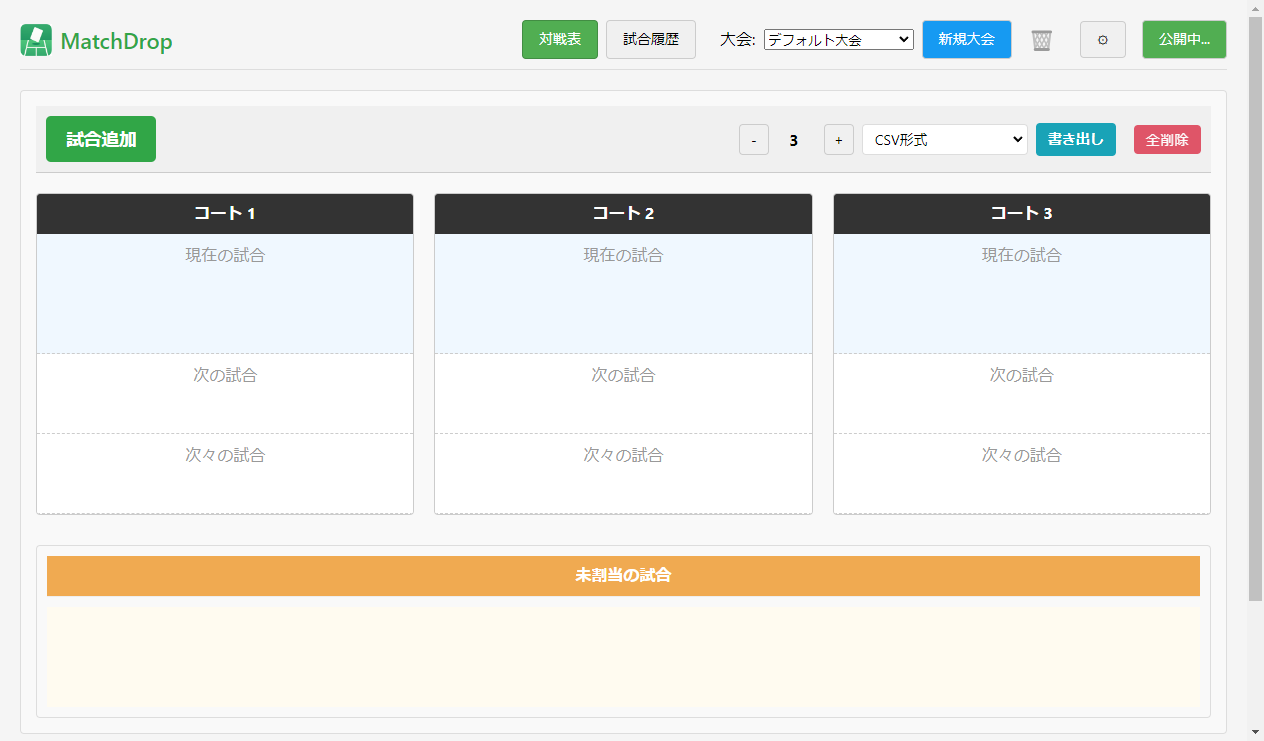
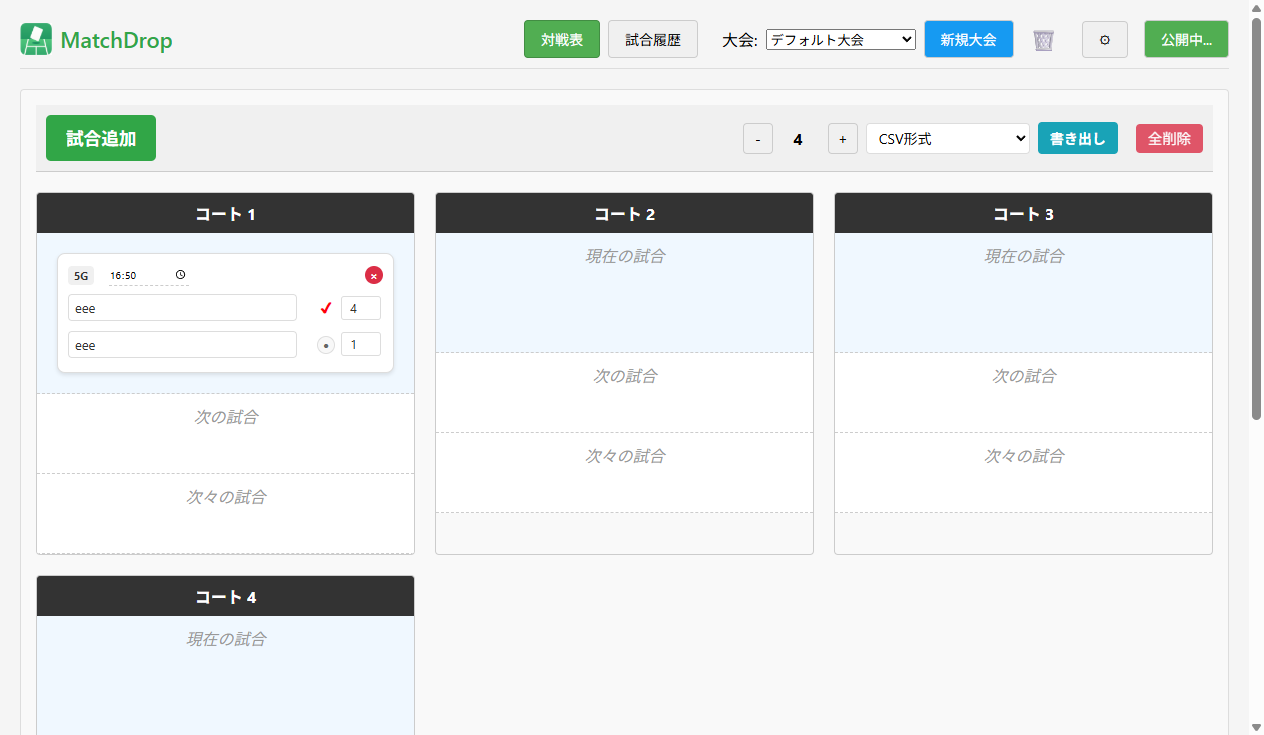
auto: deploy static site 2025-07-16T08:06:46.769Z

diff --git a/board-view.html b/board-view.html
@@ -5,7 +5,7 @@
           <button id="add-match-btn" class="add-match-btn-prominent" style="pointer-events: auto; cursor: pointer; opacity: 1;">試合追加</button>
           <div class="court-count-controls" style="margin-left:auto; margin-right:8px;">
             <button id="decrease-courts-btn">-</button>
-            <span id="court-count-display" class="court-count-display">3</span>
+            <span id="court-count-display" class="court-count-display">4</span>
             <button id="increase-courts-btn">+</button>
           </div>
           
@@ -20,7 +20,7 @@
           
           <button id="delete-all-matches-btn" class="delete-all-btn">全削除</button>
       </div>
-      <div id="court-grid" class="court-grid"><div class="court-slot" data-court-number="1"><div class="court-header"><span class="court-name-edit" data-court-number="1">コート 1</span></div><div class="court-rows"><div class="court-row current-row" data-row-type="current"><div class="row-placeholder">現在の試合</div><div class="card-container"></div></div><div class="court-row next-row" data-row-type="next"><div class="row-placeholder">次の試合</div><div class="card-container"></div></div><div class="court-row next2-row" data-row-type="next2"><div class="row-placeholder">次々の試合</div><div class="card-container"></div></div></div></div><div class="court-slot" data-court-number="2"><div class="court-header"><span class="court-name-edit" data-court-number="2">コート 2</span></div><div class="court-rows"><div class="court-row current-row" data-row-type="current"><div class="row-placeholder">現在の試合</div><div class="card-container"></div></div><div class="court-row next-row" data-row-type="next"><div class="row-placeholder">次の試合</div><div class="card-container"></div></div><div class="court-row next2-row" data-row-type="next2"><div class="row-placeholder">次々の試合</div><div class="card-container"></div></div></div></div><div class="court-slot" data-court-number="3"><div class="court-header"><span class="court-name-edit" data-court-number="3">コート 3</span></div><div class="court-rows"><div class="court-row current-row" data-row-type="current"><div class="row-placeholder">現在の試合</div><div class="card-container"></div></div><div class="court-row next-row" data-row-type="next"><div class="row-placeholder">次の試合</div><div class="card-container"></div></div><div class="court-row next2-row" data-row-type="next2"><div class="row-placeholder">次々の試合</div><div class="card-container"></div></div></div></div></div>
+      <div id="court-grid" class="court-grid"><div class="court-slot" data-court-number="1"><div class="court-header"><span class="court-name-edit" data-court-number="1">コート 1</span></div><div class="court-rows"><div class="court-row current-row" data-row-type="current"><div class="row-placeholder" style="display: none;">現在の試合</div><div class="card-container"><div class="match-card" id="match-1" draggable="true" data-match-id="1"><div class="match-card-header"><span class="delete-button" title="この試合を削除">×</span><div class="match-card-game-format-display" title="試合形式は変更できません。変更する場合は新規に試合を作成してください。ダブルクリックで試合を完了して履歴に移動します。">5G</div><input type="time" class="match-end-time-input"></div><div class="match-card-players-container"><div class="match-card-player"><input type="text" class="player-name-input" data-player="A"><div style="display: flex; align-items: center; gap: 4px; margin-left: auto;"><div class="win-label win-check" data-player="A" style="color: red; font-weight: bold;">✔</div><div style="display: flex; flex-direction: column; align-items: center; gap: 2px;"><input type="number" min="0" max="99" class="score-input" data-player="A"></div></div></div><div class="match-card-player"><input type="text" class="player-name-input" data-player="B"><div style="display: flex; align-items: center; gap: 4px; margin-left: auto;"><div class="win-label win-button" data-player="B">●</div><div style="display: flex; flex-direction: column; align-items: center; gap: 2px;"><input type="number" min="0" max="99" class="score-input" data-player="B"><div class="tiebreak-score-container-b" style="display: inline-block;"></div></div></div></div><div class="tiebreak-row" style="display: none; justify-content: flex-end; gap: 8px; margin-left: auto;"><span style="display: none;"><div class="tiebreak-score-container-a" style="display: inline-block; margin-top: 2px;"><span style="font-size: 0.8em;">(</span><input type="number" min="0" max="99" class="tiebreak-score-input" data-tiebreak="A" placeholder="TB" tabindex="0" style="width: 40px; height: 20px; font-size: 0.8em; padding: 0px 2px; pointer-events: auto; cursor: text;"><span style="font-size: 0.8em;">)</span></div></span></div></div></div></div></div><div class="court-row next-row" data-row-type="next"><div class="row-placeholder">次の試合</div><div class="card-container"></div></div><div class="court-row next2-row" data-row-type="next2"><div class="row-placeholder">次々の試合</div><div class="card-container"></div></div></div></div><div class="court-slot" data-court-number="2"><div class="court-header"><span class="court-name-edit" data-court-number="2">コート 2</span></div><div class="court-rows"><div class="court-row current-row" data-row-type="current"><div class="row-placeholder">現在の試合</div><div class="card-container"></div></div><div class="court-row next-row" data-row-type="next"><div class="row-placeholder">次の試合</div><div class="card-container"></div></div><div class="court-row next2-row" data-row-type="next2"><div class="row-placeholder">次々の試合</div><div class="card-container"></div></div></div></div><div class="court-slot" data-court-number="3"><div class="court-header"><span class="court-name-edit" data-court-number="3">コート 3</span></div><div class="court-rows"><div class="court-row current-row" data-row-type="current"><div class="row-placeholder">現在の試合</div><div class="card-container"></div></div><div class="court-row next-row" data-row-type="next"><div class="row-placeholder">次の試合</div><div class="card-container"></div></div><div class="court-row next2-row" data-row-type="next2"><div class="row-placeholder">次々の試合</div><div class="card-container"></div></div></div></div><div class="court-slot" data-court-number="4"><div class="court-header"><span class="court-name-edit" data-court-number="4">コート 4</span></div><div class="court-rows"><div class="court-row current-row" data-row-type="current"><div class="row-placeholder">現在の試合</div><div class="card-container"></div></div><div class="court-row next-row" data-row-type="next"><div class="row-placeholder">次の試合</div><div class="card-container"></div></div><div class="court-row next2-row" data-row-type="next2"><div class="row-placeholder">次々の試合</div><div class="card-container"></div></div></div></div></div>
       
       <!-- 未割当のカード用の枠 -->
       <div class="unassigned-section">

diff --git a/dist-web/board-view.html b/dist-web/board-view.html
@@ -5,7 +5,7 @@
           <button id="add-match-btn" class="add-match-btn-prominent" style="pointer-events: auto; cursor: pointer; opacity: 1;">試合追加</button>
           <div class="court-count-controls" style="margin-left:auto; margin-right:8px;">
             <button id="decrease-courts-btn">-</button>
-            <span id="court-count-display" class="court-count-display">3</span>
+            <span id="court-count-display" class="court-count-display">4</span>
             <button id="increase-courts-btn">+</button>
           </div>
           
@@ -20,7 +20,7 @@
           
           <button id="delete-all-matches-btn" class="delete-all-btn">全削除</button>
       </div>
-      <div id="court-grid" class="court-grid"><div class="court-slot" data-court-number="1"><div class="court-header"><span class="court-name-edit" data-court-number="1">コート 1</span></div><div class="court-rows"><div class="court-row current-row" data-row-type="current"><div class="row-placeholder">現在の試合</div><div class="card-container"></div></div><div class="court-row next-row" data-row-type="next"><div class="row-placeholder">次の試合</div><div class="card-container"></div></div><div class="court-row next2-row" data-row-type="next2"><div class="row-placeholder">次々の試合</div><div class="card-container"></div></div></div></div><div class="court-slot" data-court-number="2"><div class="court-header"><span class="court-name-edit" data-court-number="2">コート 2</span></div><div class="court-rows"><div class="court-row current-row" data-row-type="current"><div class="row-placeholder">現在の試合</div><div class="card-container"></div></div><div class="court-row next-row" data-row-type="next"><div class="row-placeholder">次の試合</div><div class="card-container"></div></div><div class="court-row next2-row" data-row-type="next2"><div class="row-placeholder">次々の試合</div><div class="card-container"></div></div></div></div><div class="court-slot" data-court-number="3"><div class="court-header"><span class="court-name-edit" data-court-number="3">コート 3</span></div><div class="court-rows"><div class="court-row current-row" data-row-type="current"><div class="row-placeholder">現在の試合</div><div class="card-container"></div></div><div class="court-row next-row" data-row-type="next"><div class="row-placeholder">次の試合</div><div class="card-container"></div></div><div class="court-row next2-row" data-row-type="next2"><div class="row-placeholder">次々の試合</div><div class="card-container"></div></div></div></div></div>
+      <div id="court-grid" class="court-grid"><div class="court-slot" data-court-number="1"><div class="court-header"><span class="court-name-edit" data-court-number="1">コート 1</span></div><div class="court-rows"><div class="court-row current-row" data-row-type="current"><div class="row-placeholder" style="display: none;">現在の試合</div><div class="card-container"><div class="match-card" id="match-1" draggable="true" data-match-id="1"><div class="match-card-header"><span class="delete-button" title="この試合を削除">×</span><div class="match-card-game-format-display" title="試合形式は変更できません。変更する場合は新規に試合を作成してください。ダブルクリックで試合を完了して履歴に移動します。">5G</div><input type="time" class="match-end-time-input"></div><div class="match-card-players-container"><div class="match-card-player"><input type="text" class="player-name-input" data-player="A"><div style="display: flex; align-items: center; gap: 4px; margin-left: auto;"><div class="win-label win-check" data-player="A" style="color: red; font-weight: bold;">✔</div><div style="display: flex; flex-direction: column; align-items: center; gap: 2px;"><input type="number" min="0" max="99" class="score-input" data-player="A"></div></div></div><div class="match-card-player"><input type="text" class="player-name-input" data-player="B"><div style="display: flex; align-items: center; gap: 4px; margin-left: auto;"><div class="win-label win-button" data-player="B">●</div><div style="display: flex; flex-direction: column; align-items: center; gap: 2px;"><input type="number" min="0" max="99" class="score-input" data-player="B"><div class="tiebreak-score-container-b" style="display: inline-block;"></div></div></div></div><div class="tiebreak-row" style="display: none; justify-content: flex-end; gap: 8px; margin-left: auto;"><span style="display: none;"><div class="tiebreak-score-container-a" style="display: inline-block; margin-top: 2px;"><span style="font-size: 0.8em;">(</span><input type="number" min="0" max="99" class="tiebreak-score-input" data-tiebreak="A" placeholder="TB" tabindex="0" style="width: 40px; height: 20px; font-size: 0.8em; padding: 0px 2px; pointer-events: auto; cursor: text;"><span style="font-size: 0.8em;">)</span></div></span></div></div></div></div></div><div class="court-row next-row" data-row-type="next"><div class="row-placeholder">次の試合</div><div class="card-container"></div></div><div class="court-row next2-row" data-row-type="next2"><div class="row-placeholder">次々の試合</div><div class="card-container"></div></div></div></div><div class="court-slot" data-court-number="2"><div class="court-header"><span class="court-name-edit" data-court-number="2">コート 2</span></div><div class="court-rows"><div class="court-row current-row" data-row-type="current"><div class="row-placeholder">現在の試合</div><div class="card-container"></div></div><div class="court-row next-row" data-row-type="next"><div class="row-placeholder">次の試合</div><div class="card-container"></div></div><div class="court-row next2-row" data-row-type="next2"><div class="row-placeholder">次々の試合</div><div class="card-container"></div></div></div></div><div class="court-slot" data-court-number="3"><div class="court-header"><span class="court-name-edit" data-court-number="3">コート 3</span></div><div class="court-rows"><div class="court-row current-row" data-row-type="current"><div class="row-placeholder">現在の試合</div><div class="card-container"></div></div><div class="court-row next-row" data-row-type="next"><div class="row-placeholder">次の試合</div><div class="card-container"></div></div><div class="court-row next2-row" data-row-type="next2"><div class="row-placeholder">次々の試合</div><div class="card-container"></div></div></div></div><div class="court-slot" data-court-number="4"><div class="court-header"><span class="court-name-edit" data-court-number="4">コート 4</span></div><div class="court-rows"><div class="court-row current-row" data-row-type="current"><div class="row-placeholder">現在の試合</div><div class="card-container"></div></div><div class="court-row next-row" data-row-type="next"><div class="row-placeholder">次の試合</div><div class="card-container"></div></div><div class="court-row next2-row" data-row-type="next2"><div class="row-placeholder">次々の試合</div><div class="card-container"></div></div></div></div></div>
       
       <!-- 未割当のカード用の枠 -->
       <div class="unassigned-section">
